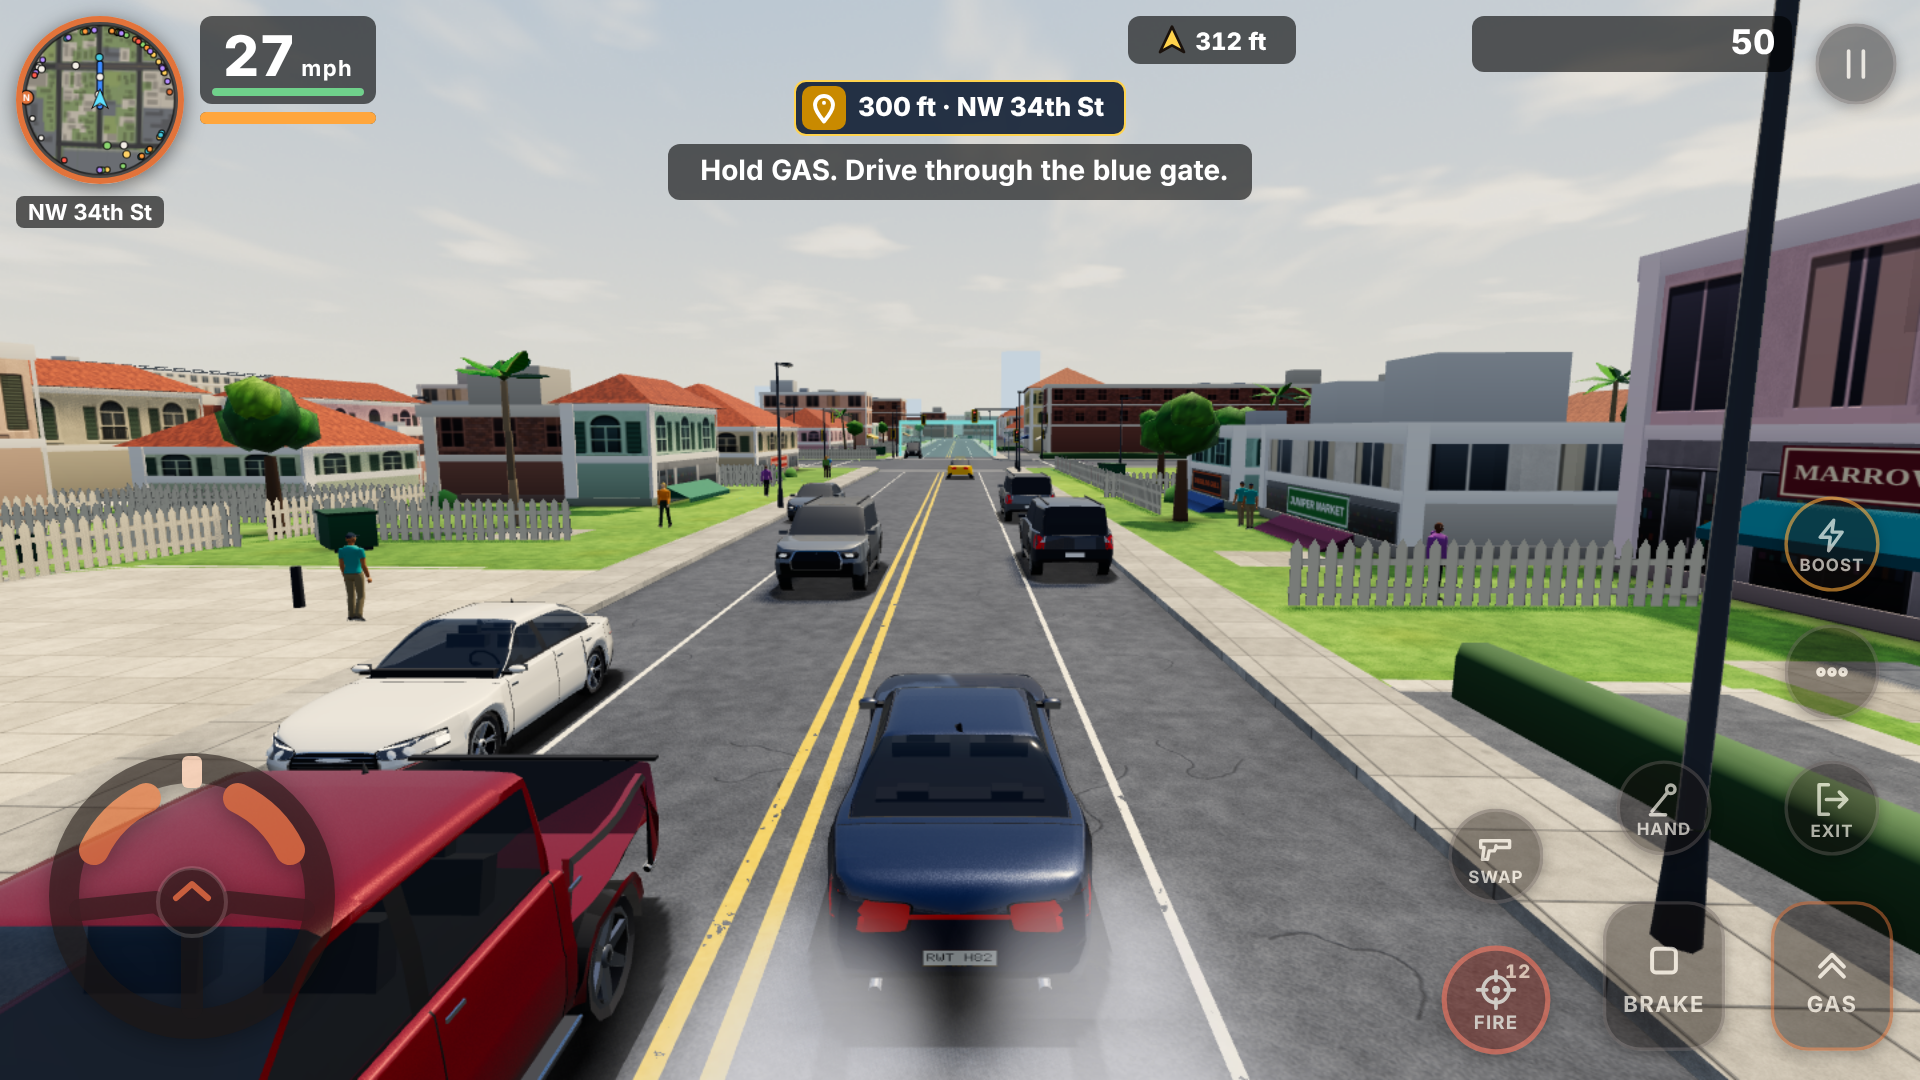
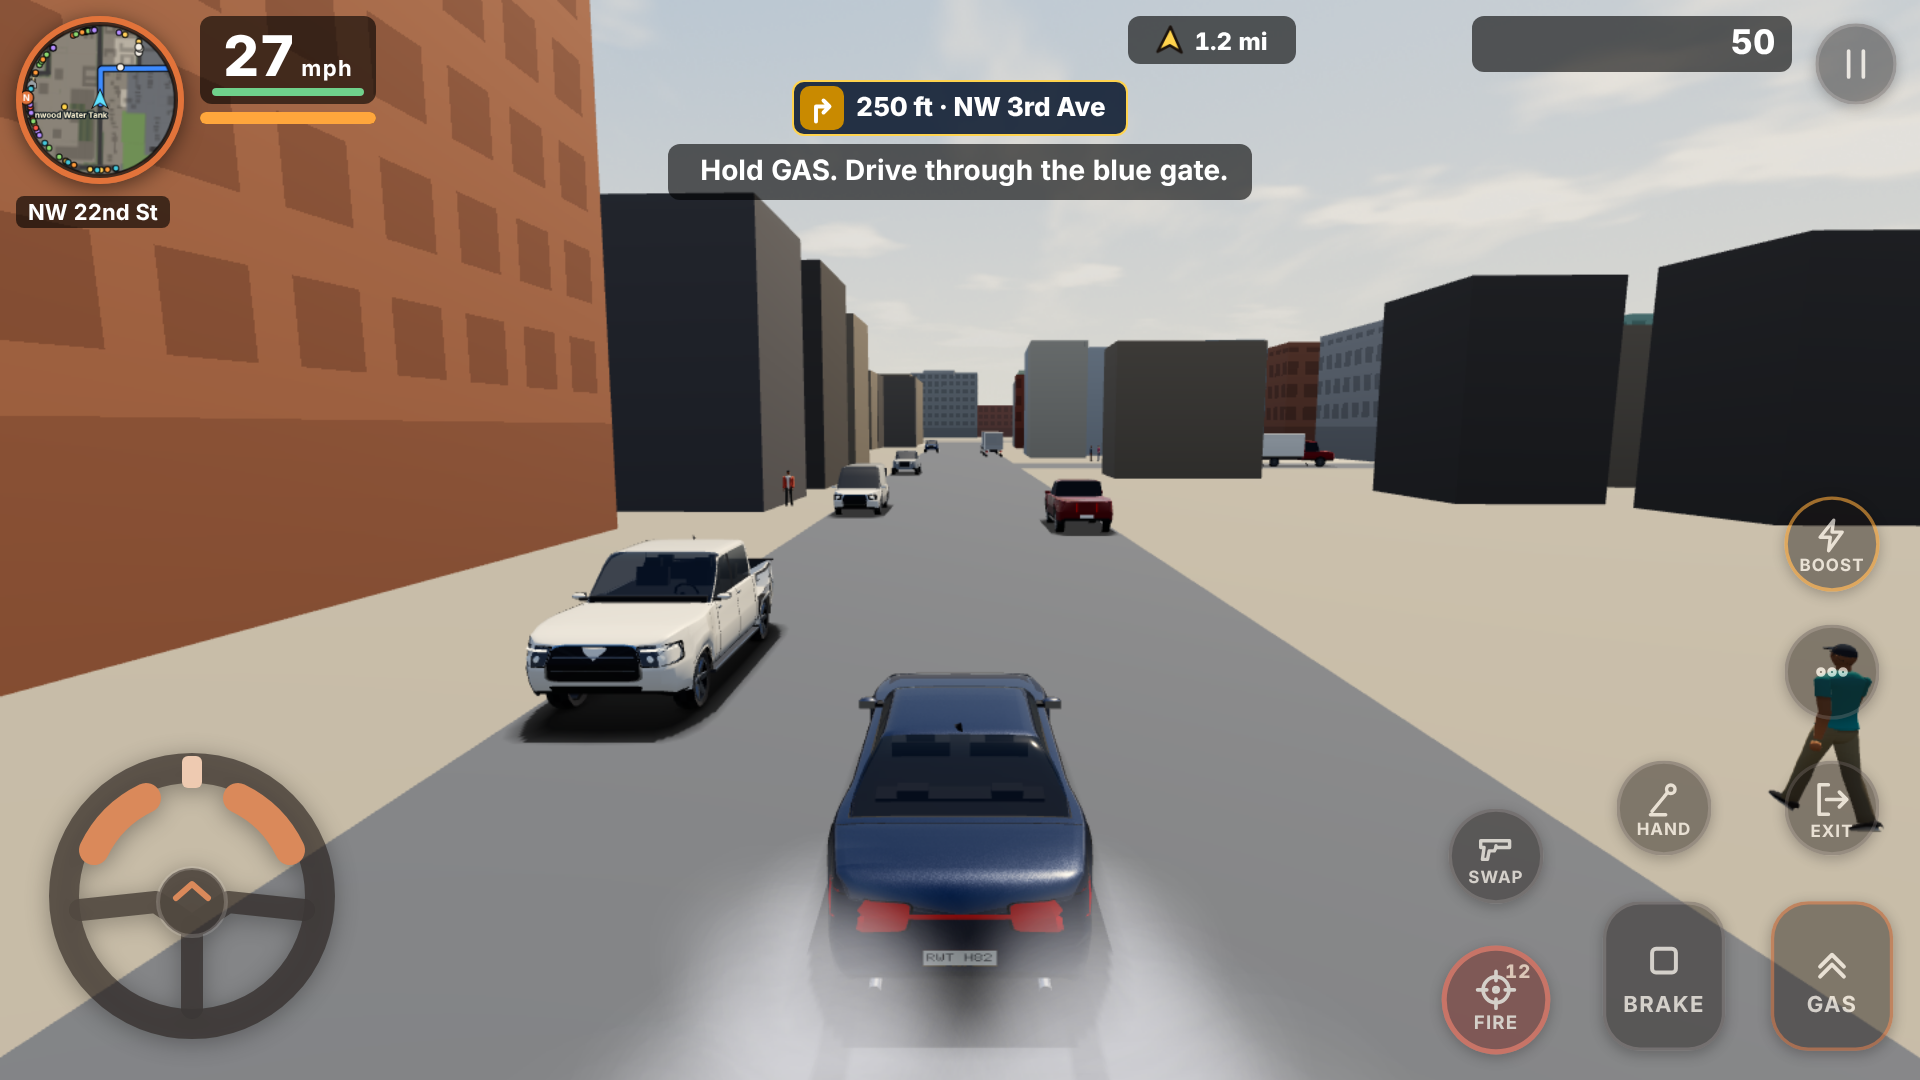
Importer ramp groups whole, store shots from eight places, status note
Claude-Session: https://claude.ai/code/session_018iGo17mtLFKMHzBd1Cq3Kh

diff --git a/src/world/miami.js b/src/world/miami.js
@@ -914,7 +914,24 @@ function keepJoinedRamps(R) {
       else if (m === 2) onto[findRoot(up, i)] = 1;
     }
   }
-  for (let i = 0; i < n; i++) if (!bad[findRoot(up, i)] && onto[findRoot(up, i)]) readRoad(R, list[i], true);
+  // A group is kept whole or not at all: if readRoad rejects any member
+  // (not drivable, outside the crop, cut to nothing), the members read so
+  // far are taken back, since a kept part would end at a dead end.
+  const done = new Uint8Array(n);
+  for (let i = 0; i < n; i++) {
+    const g = findRoot(up, i);
+    if (done[g]) continue;
+    done[g] = 1;
+    if (bad[g] || !onto[g]) continue;
+    const w0 = R.ways.length, np0 = R.np, c0 = R.cuts.length;
+    let ok = true;
+    for (let j = i; j < n && ok; j++) if (findRoot(up, j) === g) ok = readRoad(R, list[j], true);
+    if (!ok) {
+      R.ways.length = R.wayS.length = R.wayE.length = w0;
+      R.np = np0;
+      R.cuts.length = c0;
+    }
+  }
 }
 // True when (x, z) is within RAMP_JOIN of a segment of P (flat x, z pairs)
 // from k0 to k1; with skip >= 0, not within skip m of P's own two ends.
@@ -1022,7 +1039,13 @@ function flyoverOverLand(landCell, baseLand, pts, m) {
 // One way of the data.
 const TUNNEL = /tunnel/i;
 // ramp: a ramp keepJoinedRamps keeps (not left out as at grade).
+// Returns whether the road became at least one way (false: left out).
 function readRoad(R, r, ramp) {
+  const w0 = R.ways.length;
+  readRoadInto(R, r, ramp);
+  return R.ways.length > w0;
+}
+function readRoadInto(R, r, ramp) {
   // Pedestrian streets: only the named malls (2.1 item 8), drivable.
   if (!DRIVE.has(r.class) && !(r.class === 'pedestrian' && (r.mall || PED_STREETS.has(r.name)))) return;
   if (r.name && TUNNEL.test(r.name)) return;

diff --git a/docs/STATUS.md b/docs/STATUS.md
@@ -1114,3 +1114,8 @@ Note on 0.11.1 (2026-11-24): the first release commit also carried unfinished PE
 - Fingerprints: whole box and Downtown re-pinned on purpose (comment in test/regions.test.js); Beach, North, West, South unchanged. The Bay Bridges Rally's last via point moves from (1800, -100) to (1760, 40) (world/miami-spots.js) so its lap still visits Palm Island (the new ramp changed its shortest walk).
 - Left: the Port of Miami can be entered but not left (its westbound Port Boulevard flyover bridges are dropped as flyovers: 4 percent of Downtown road; goals there route, a route out of it is partial). Travel pads on a one-way that enters at the crop edge still get a partial route: downtown-west-sw8 (ends 104 m off), downtown-south-miamiave (25), north-beach-tuttle (1842: the Beach has no westbound Julia Tuttle Causeway, its ramps start on pieces cut off the same way), downtown-north-nw2 (50), downtown-west-flagler (32).
 - Tests: test/route.test.js new check (all those Downtown goals routed in full and legally; fails before with 9 partial). Gates: eslint (changed files), npm test 1124 of 1125 (the spatial H1 budget timing test under load; passes alone), smoke --extra ok.
+
+## 2026-11-25: 0.13.4 importer and shots (in the tree, no version bump)
+- world/miami.js `keepJoinedRamps`: a ramp group is now kept whole or not at all. `readRoad` returns whether the road became a way; if any member of a group is rejected (not drivable, outside the crop, cut to nothing), the members read so far are taken back (ways, points, crop cuts), so a kept ramp can never end at a dead end beside a dropped one. Fingerprints: no change, every region and the whole box match the pins in test/regions.test.js (no repin; no test loosened), so on today's data no group had a rejected member and this is a guard for later data.
+- scripts/store-shots.mjs: each of the 8 shots has its own camera place: the nearest car road to a point, the car facing along it (or against), landscape 960x540 at 2x: Ocean Drive (region start), Biscayne Boulevard by the arena, Beach south of the start (facing back), Wynwood, Calle Ocho, Brickell, the port in rain, the MacArthur Causeway at night. The PNG metadata check stays. store/screenshot-1..8.png replaced. (Software GL: about 3 minutes a shot; resume with `node scripts/store-shots.mjs <n>`.)
+- "dependent prototype chain changed" warm-up at boot (IdleDeadline, URL, an input element in src/main.js): tried and NOT kept. A warm-up (new URL, a range input with a listener, a requestIdleCallback whose callback reads the deadline) at the top of main.js, against the same build without it, Downtown, `--js-flags=--trace-deopt-verbose`, 8 s idle, 1800 steps, then a new URL and input: "dependent prototype chain changed" lines 205 and 199 without, 199 and 197 with (two runs each), which is run to run noise; boot to running 13.3 and 12.2 s without, 11.0 and 10.9 s with (swiftshader, load noise, not a cost). The deopts did not go away, most likely because the functions they hit are optimized later and the interfaces they depend on are built by Blink on other paths than the ones touched (the Event family of the Settings sliders, the first idle callback of the graphics prebuild). Not worth code: no measurable reduction. The finding of 0.13.3 stands (not game code, once a page load each).
